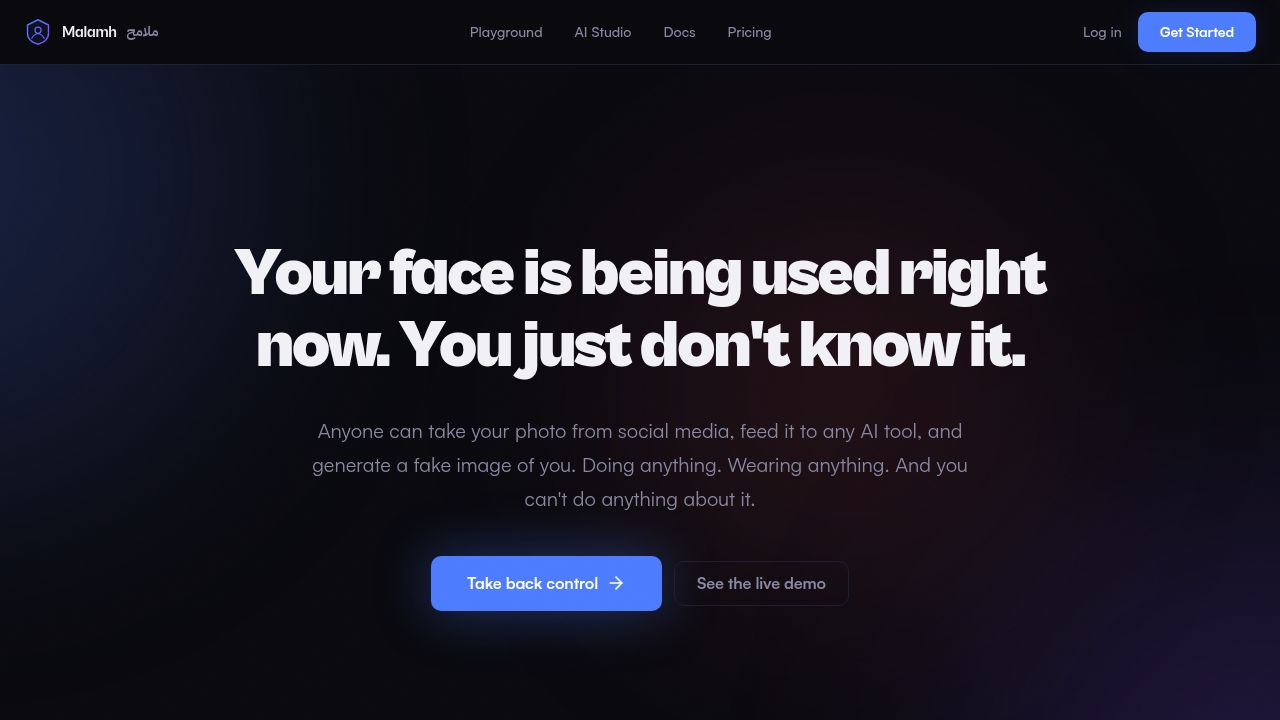
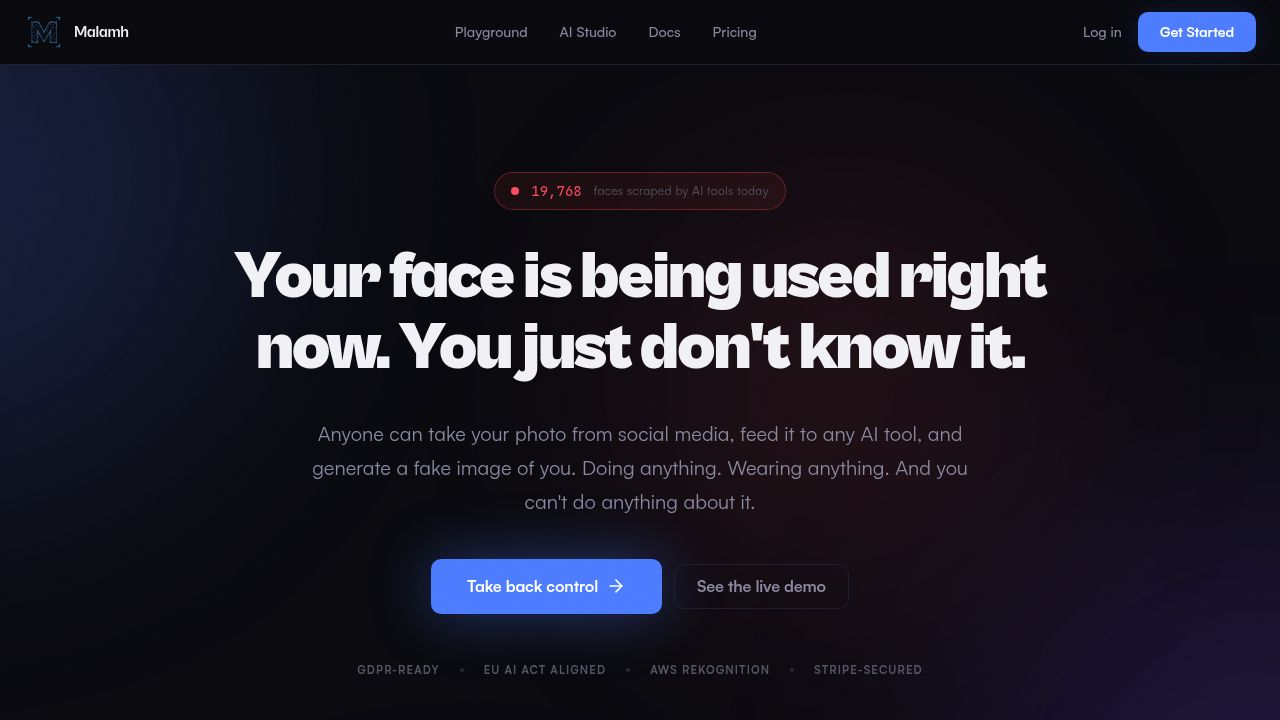
Fix build errors by resolving Clerk shared module paths
Adds a custom Vite plugin to programmatically resolve subpath imports from '@user/shared', addressing build failures caused by unadvertised modules in the package.json exports.

Replit-Commit-Author: Agent
Replit-Commit-Session-Id: 3d51e414-e313-42fc-a706-0affd8ac303e
Replit-Commit-Checkpoint-Type: full_checkpoint
Replit-Commit-Event-Id: 1ab14d68-91a8-4424-8709-0e33ae1c2308
Replit-Commit-Screenshot-Url: https://storage.googleapis.com/screenshot-production-us-central1/b013069e-0383-4dbc-ad80-fa0f18723e37/3d51e414-e313-42fc-a706-0affd8ac303e/HmfBZh3
Replit-Helium-Checkpoint-Created: true

diff --git a/artifacts/malamh/vite.config.ts b/artifacts/malamh/vite.config.ts
@@ -1,8 +1,39 @@
-import { defineConfig } from "vite";
+import { defineConfig, type Plugin } from "vite";
 import react from "@vitejs/plugin-react";
 import tailwindcss from "@tailwindcss/vite";
 import path from "path";
+import fs from "fs";
+import { createRequire } from "module";
 import runtimeErrorOverlay from "@replit/vite-plugin-runtime-error-modal";
+
+const require = createRequire(import.meta.url);
+const clerkSharedRoot = path.dirname(
+  require.resolve("@clerk/shared/package.json"),
+);
+
+// @clerk/react@6 imports many @clerk/shared subpaths (e.g. @clerk/shared/loadClerkJsScript)
+// that are emitted to dist/runtime/* but not advertised explicitly in the package.json
+// "exports" field, so Rollup fails to resolve them during production build. Map them
+// programmatically rather than hand-listing each subpath.
+function clerkSharedSubpathPlugin(): Plugin {
+  const prefix = "@clerk/shared/";
+  return {
+    name: "clerk-shared-subpath-resolver",
+    enforce: "pre",
+    resolveId(source) {
+      if (!source.startsWith(prefix)) return null;
+      const rest = source.slice(prefix.length);
+      const candidates = [
+        path.join(clerkSharedRoot, "dist/runtime", `${rest}.mjs`),
+        path.join(clerkSharedRoot, "dist/runtime", rest, "index.mjs"),
+      ];
+      for (const c of candidates) {
+        if (fs.existsSync(c)) return c;
+      }
+      return null;
+    },
+  };
+}
 
 const rawPort = process.env.PORT;
 
@@ -29,6 +60,7 @@ if (!basePath) {
 export default defineConfig({
   base: basePath,
   plugins: [
+    clerkSharedSubpathPlugin(),
     react(),
     tailwindcss({ optimize: false }),
     runtimeErrorOverlay(),